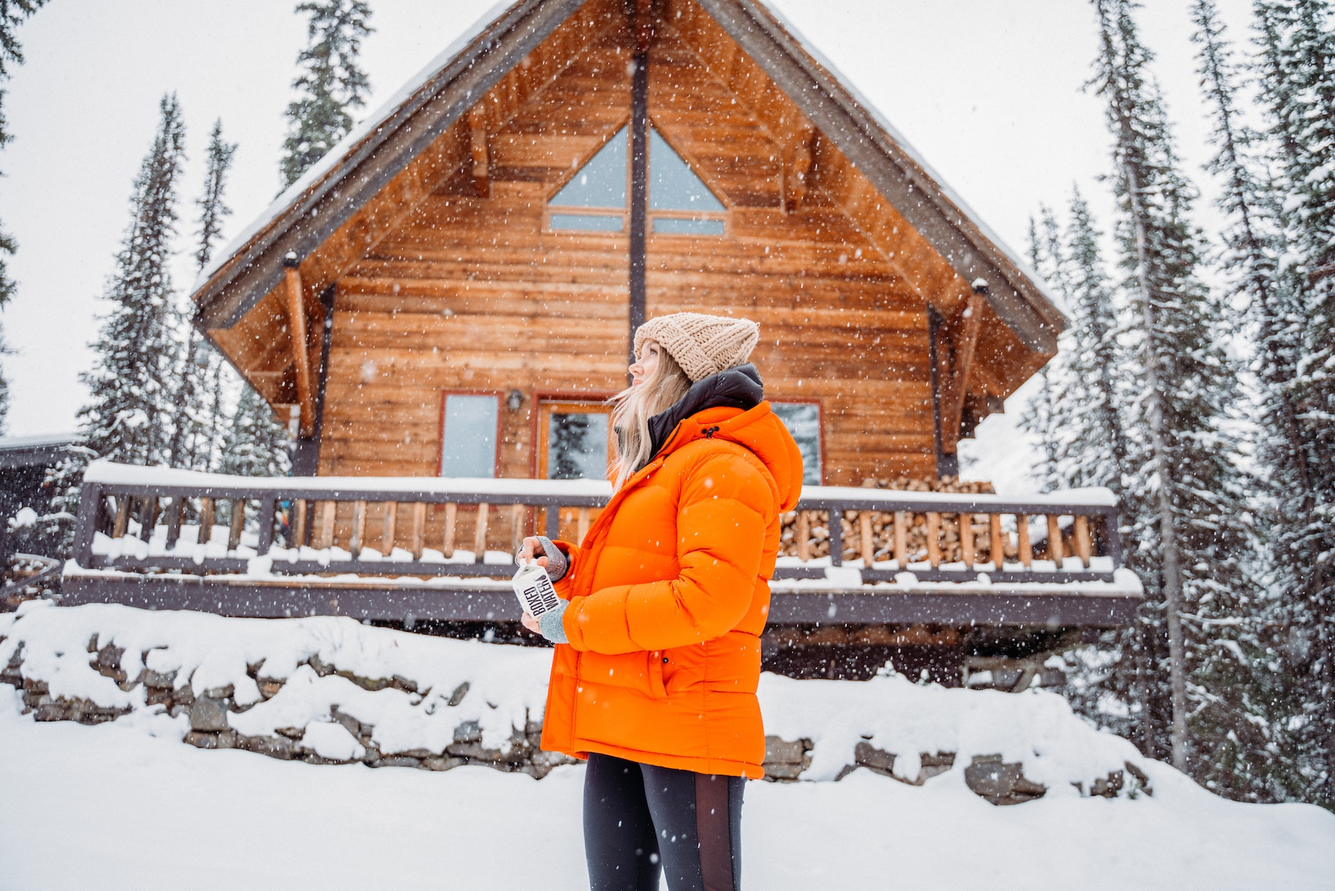
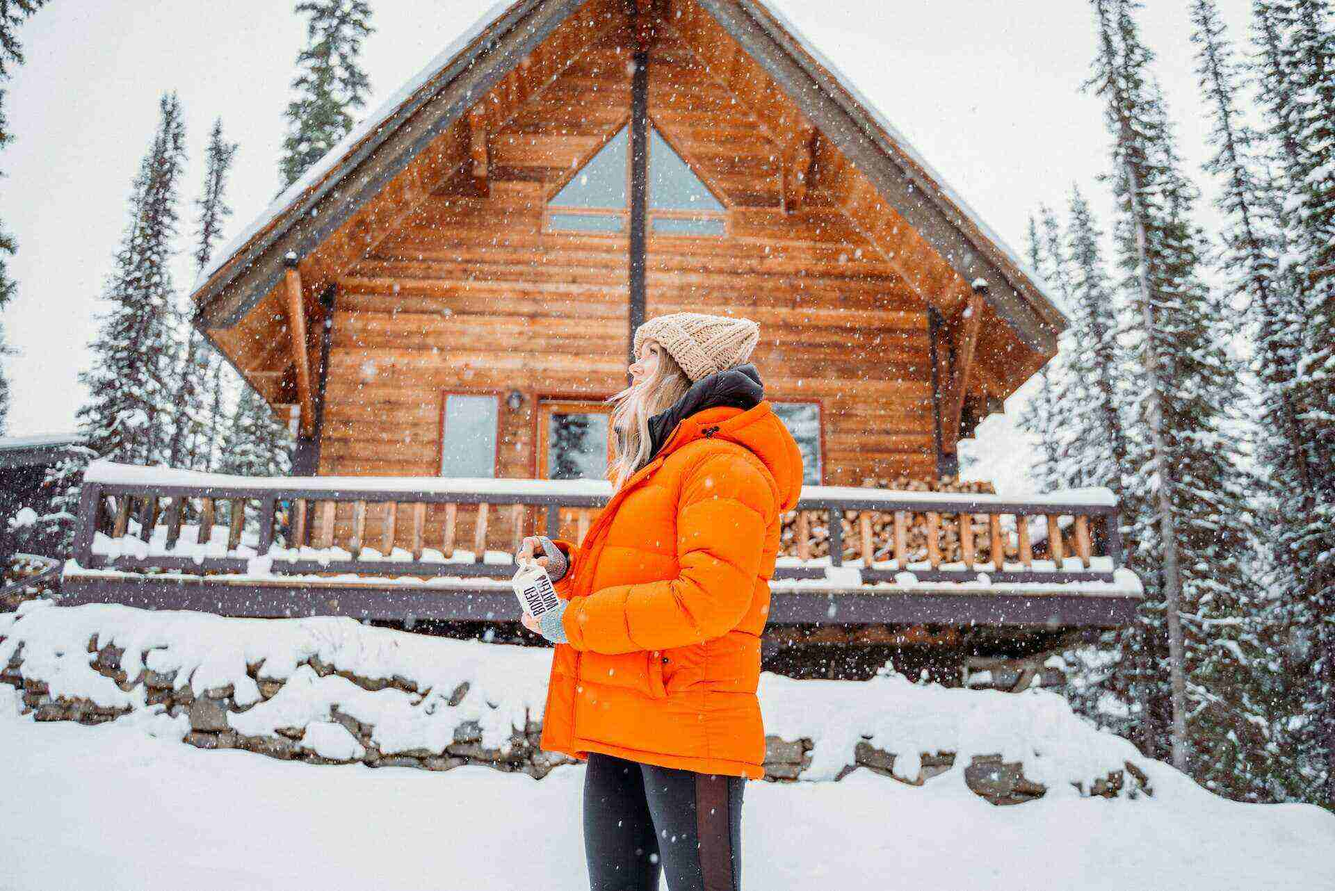
update img

diff --git a/css/styles.css b/css/styles.css
@@ -199,7 +199,7 @@ li {
 /* HomePage */
 
 .front {
-  background-image: url("../images/forside.jpg");
+  background-image: url("../images/forside2.jpg");
   background-repeat: no-repeat;
   background-position: center;
   background-size: cover;
